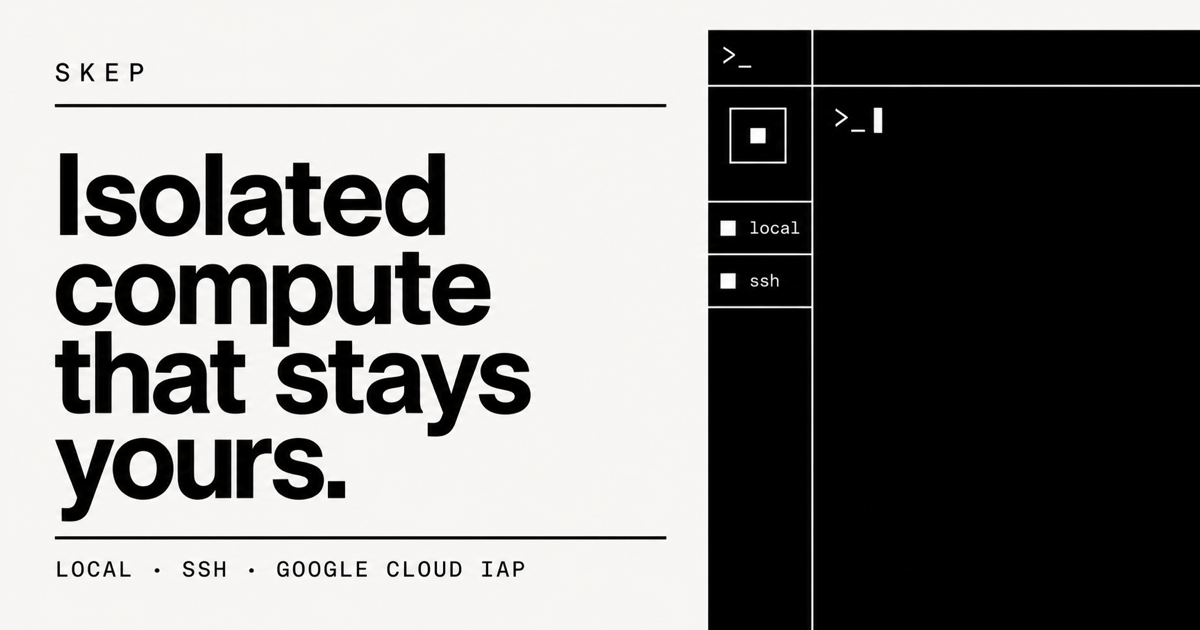
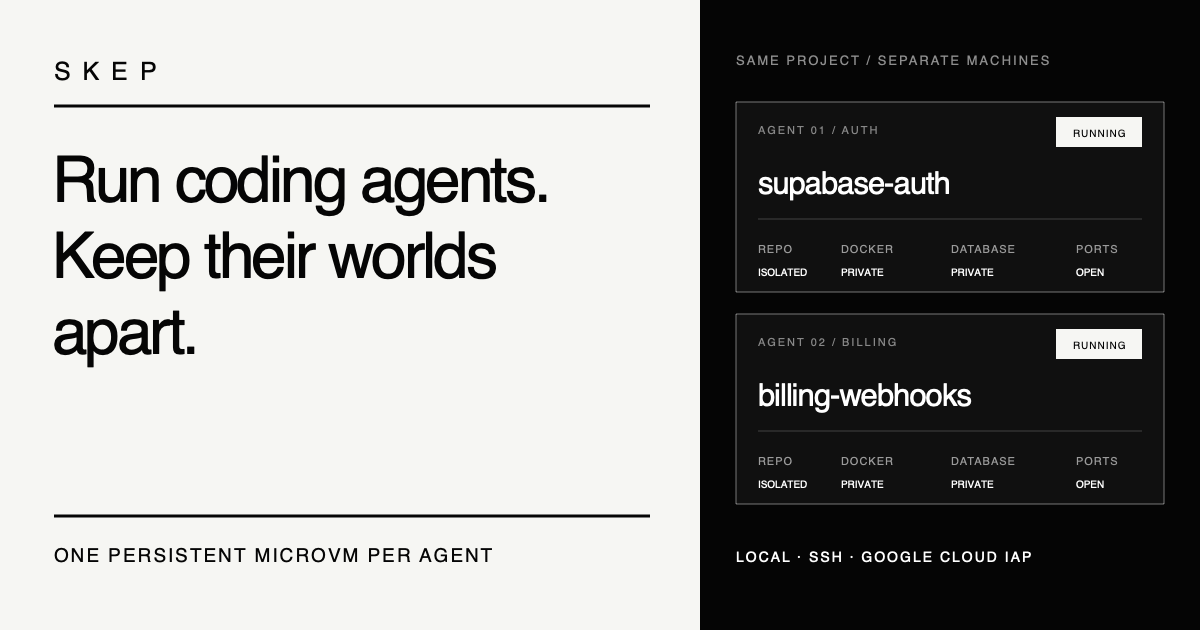
Clarify Skep coding agent use case

diff --git a/website/public/index.html b/website/public/index.html
@@ -3,27 +3,27 @@
   <head>
     <meta charset="utf-8">
     <meta name="viewport" content="width=device-width, initial-scale=1">
-    <title>Skep — Isolated compute that stays yours</title>
-    <meta name="description" content="Build persistent microVM workspaces on your Apple Silicon Mac or a remote Linux host. One native app for local compute, SSH, and Google Cloud IAP.">
+    <title>Skep — Isolated workspaces for coding agents</title>
+    <meta name="description" content="Give every coding agent its own persistent Linux microVM, Docker environment, database, and ports. Run locally on Apple Silicon or on your own Linux host.">
     <meta name="application-name" content="Skep">
     <meta name="apple-mobile-web-app-title" content="Skep">
     <meta name="theme-color" content="#050505">
     <meta property="og:type" content="website">
     <meta property="og:site_name" content="Skep">
     <meta property="og:locale" content="en_US">
-    <meta property="og:title" content="Skep — Isolated compute that stays yours">
-    <meta property="og:description" content="Persistent microVM workspaces, locally on Apple Silicon or remotely over SSH and Google Cloud IAP.">
+    <meta property="og:title" content="Skep — Isolated workspaces for coding agents">
+    <meta property="og:description" content="Run coding agents in parallel without shared Docker, database, port, or filesystem collisions.">
     <meta property="og:url" content="https://skep-compute.vercel.app">
     <meta property="og:image" content="https://skep-compute.vercel.app/og.png">
     <meta property="og:image:type" content="image/png">
     <meta property="og:image:width" content="1200">
     <meta property="og:image:height" content="630">
-    <meta property="og:image:alt" content="Skep — Isolated compute that stays yours. Local, SSH, and Google Cloud IAP.">
+    <meta property="og:image:alt" content="Skep — Run coding agents. Keep their worlds apart. One persistent microVM per agent.">
     <meta name="twitter:card" content="summary_large_image">
-    <meta name="twitter:title" content="Skep — Isolated compute that stays yours">
-    <meta name="twitter:description" content="Persistent microVM workspaces, locally or on your own Linux hosts.">
+    <meta name="twitter:title" content="Skep — Isolated workspaces for coding agents">
+    <meta name="twitter:description" content="One persistent Linux microVM per coding agent, locally or on your own cloud host.">
     <meta name="twitter:image" content="https://skep-compute.vercel.app/og.png">
-    <meta name="twitter:image:alt" content="Skep — Isolated compute that stays yours.">
+    <meta name="twitter:image:alt" content="Skep — Run coding agents. Keep their worlds apart.">
     <link rel="canonical" href="https://skep-compute.vercel.app">
     <link rel="icon" href="/favicon.svg" type="image/svg+xml">
     <link rel="icon" href="/favicon-32x32.png" sizes="32x32" type="image/png">
@@ -38,10 +38,10 @@
         "name": "Skep",
         "applicationCategory": "DeveloperApplication",
         "operatingSystem": "macOS 14 or later",
-        "softwareVersion": "0.1.0",
+        "softwareVersion": "0.1.1",
         "url": "https://skep-compute.vercel.app",
         "downloadUrl": "https://skep-compute.vercel.app/download",
-        "description": "Persistent isolated compute on your Apple Silicon Mac and your own Linux hosts.",
+        "description": "Persistent isolated Linux workspaces for running coding agents in parallel on Apple Silicon and your own Linux hosts.",
         "offers": {
           "@type": "Offer",
           "price": "0",
@@ -59,8 +59,8 @@
         <span>SKEP</span>
       </a>
       <nav aria-label="Primary navigation">
+        <a href="#use-cases">Use cases</a>
         <a href="#workflow">Workflow</a>
-        <a href="#architecture">Architecture</a>
         <a href="#faq">FAQ</a>
       </nav>
       <a class="header-cta" href="/download">Download beta <span aria-hidden="true">↘</span></a>
@@ -69,14 +69,14 @@
     <main id="main">
       <section class="hero">
         <div class="hero-copy">
-          <p class="eyebrow"><span class="status-dot"></span> Private beta · macOS</p>
-          <h1>Isolated compute<br>that stays yours.</h1>
-          <p class="lede">Build a machine once. Publish a template. Open persistent microVM workspaces on your Mac or your own cloud host—without learning another cloud control plane.</p>
+          <p class="eyebrow"><span class="status-dot"></span> Coding agent workspaces · Private beta</p>
+          <h1>Run coding agents.<br>Keep their worlds apart.</h1>
+          <p class="lede">Give every agent its own persistent Linux microVM—with a separate filesystem, Docker environment, database, and ports. Run them on your Mac or your own cloud host and switch between their terminals from one native app.</p>
           <div class="hero-actions">
             <a class="button button-primary" href="/download">Download for Mac</a>
-            <a class="button button-secondary" href="#workflow">See the workflow</a>
+            <a class="button button-secondary" href="#use-cases">See what it solves</a>
           </div>
-          <p class="requirements">Apple Silicon · macOS 14+ · No account required</p>
+          <p class="requirements">Apple Silicon · macOS 14+ · Bring your own agent · No account required</p>
         </div>
         <div class="hero-system" aria-label="Skep application preview">
           <div class="window-bar">
@@ -91,17 +91,33 @@
               <div class="host"><span class="host-icon">◇</span><span>dev-gcp<small>GCP · IAP</small></span></div>
               <div class="workspace-line"></div>
               <p class="ui-label workspace-label">WORKSPACES 2</p>
-              <div class="workspace active"><span></span>agent-main <em>RUNNING</em></div>
-              <div class="workspace"><span></span>review-3085 <em>STOPPED</em></div>
+              <div class="workspace active"><span></span>supabase-auth <em>AGENT RUNNING</em></div>
+              <div class="workspace"><span></span>billing-webhooks <em>AGENT RUNNING</em></div>
             </aside>
             <div class="app-main">
-              <div class="terminal-head"><span>WORKSPACE / agent-main</span><span>● CONNECTED</span></div>
-              <div class="terminal-body">
-                <p><b>$</b> git status --short</p>
-                <p><i>M</i> src/agent/runtime.rs</p>
-                <p><b>$</b> docker compose up -d</p>
-                <p class="muted">[+] Running 4/4</p>
-                <p><b>$</b> <span class="cursor"></span></p>
+              <div class="terminal-grid">
+                <div class="terminal-pane">
+                  <div class="terminal-head"><span>01 / SUPABASE-AUTH</span><span>● CODEX</span></div>
+                  <div class="terminal-body">
+                    <p><b>$</b> codex "add passkey auth"</p>
+                    <p class="muted">Working in auth/callback.ts</p>
+                    <p><b>$</b> docker compose ps</p>
+                    <p><i>api</i> &nbsp; :3000 &nbsp; running</p>
+                    <p><i>db</i> &nbsp;&nbsp; :5432 &nbsp; running</p>
+                    <p><b>$</b> <span class="cursor"></span></p>
+                  </div>
+                </div>
+                <div class="terminal-pane secondary">
+                  <div class="terminal-head"><span>02 / BILLING-WEBHOOKS</span><span>● CLAUDE</span></div>
+                  <div class="terminal-body">
+                    <p><b>$</b> claude "add billing portal"</p>
+                    <p class="muted">Working in billing/webhooks.ts</p>
+                    <p><b>$</b> docker compose ps</p>
+                    <p><i>api</i> &nbsp; :3000 &nbsp; running</p>
+                    <p><i>db</i> &nbsp;&nbsp; :5432 &nbsp; running</p>
+                    <p><b>$</b> <span class="cursor static"></span></p>
+                  </div>
+                </div>
               </div>
             </div>
           </div>
@@ -109,39 +125,86 @@
       </section>
 
       <section class="proof-strip" aria-label="Product capabilities">
-        <span>LOCAL APPLE SILICON</span>
-        <span>REGULAR SSH</span>
-        <span>GOOGLE CLOUD IAP</span>
-        <span>DOCKER INSIDE</span>
-        <span>PERSISTENT DISKS</span>
+        <span>ONE MICROVM PER AGENT</span>
+        <span>OWN DOCKER</span>
+        <span>OWN DATABASE</span>
+        <span>OWN PORTS</span>
+        <span>LOCAL OR YOUR CLOUD</span>
       </section>
 
-      <section class="statement section-rule">
-        <p class="eyebrow">THE PREMISE</p>
-        <h2>Your laptop should feel local.<br>Your compute does not have to be.</h2>
-        <p>Skep treats your Mac and your Linux VMs as one pool of isolated development capacity. The interface stays the same whether a workspace is running three feet away or behind Google Cloud IAP.</p>
+      <section id="use-cases" class="use-cases section-rule">
+        <div class="use-case-intro">
+          <p class="eyebrow">THE JOB</p>
+          <h2>Parallel agents without shared-state chaos.</h2>
+          <p>Another checkout is not another computer. Two agents can still fight over Docker, databases, ports, dependencies, and migrations. Skep gives each task a complete, persistent machine.</p>
+        </div>
+        <div class="agent-boundary" aria-label="Two coding agents running in separate workspaces">
+          <div class="boundary-head">
+            <span>SAME PROJECT</span>
+            <span>SEPARATE MACHINES</span>
+          </div>
+          <div class="agent-columns">
+            <article>
+              <p class="agent-index">AGENT 01 / AUTH</p>
+              <h3>supabase-auth</h3>
+              <ul>
+                <li><span>WORKING TREE</span><strong>isolated</strong></li>
+                <li><span>DOCKER + DB</span><strong>private</strong></li>
+                <li><span>PORT 3000</span><strong>available</strong></li>
+                <li><span>STATE</span><strong>persistent</strong></li>
+              </ul>
+            </article>
+            <article>
+              <p class="agent-index">AGENT 02 / BILLING</p>
+              <h3>billing-webhooks</h3>
+              <ul>
+                <li><span>WORKING TREE</span><strong>isolated</strong></li>
+                <li><span>DOCKER + DB</span><strong>private</strong></li>
+                <li><span>PORT 3000</span><strong>available</strong></li>
+                <li><span>STATE</span><strong>persistent</strong></li>
+              </ul>
+            </article>
+          </div>
+        </div>
+        <div class="use-case-grid">
+          <article>
+            <span>01</span>
+            <h3>Ship features in parallel</h3>
+            <p>Put Codex, Claude Code, or another CLI agent in a workspace per task. Each gets the complete stack without colliding with the others.</p>
+          </article>
+          <article>
+            <span>02</span>
+            <h3>Keep long jobs remote</h3>
+            <p>Run on a Linux VM you control, including hosts behind Google Cloud IAP. Close your laptop and reconnect to the same persistent workspace.</p>
+          </article>
+          <article>
+            <span>03</span>
+            <h3>Review without residue</h3>
+            <p>Launch a clean machine from your template, install project dependencies, run the full stack, then delete the workspace when the review is done.</p>
+          </article>
+        </div>
       </section>
 
       <section id="workflow" class="workflow section-rule">
         <div class="section-heading">
           <p class="eyebrow">ONE REPEATABLE LOOP</p>
-          <h2>From clean image to working machine.</h2>
+          <h2>Prepare once. Launch a machine per task.</h2>
         </div>
         <ol class="steps">
           <li>
             <span class="step-number">01</span>
-            <h3>Build</h3>
-            <p>Start an editable microVM from an OCI image. Install your tools through a full terminal and keep the builder around.</p>
+            <h3>Prepare</h3>
+            <p>Start an editable Linux microVM. Install your coding agents, repository tools, Docker stack, and project dependencies once.</p>
           </li>
           <li>
             <span class="step-number">02</span>
-            <h3>Publish</h3>
-            <p>Capture a verified, immutable template. The source builder remains available when you need to change the baseline.</p>
+            <h3>Template</h3>
+            <p>Capture a verified baseline. The source builder stays available whenever your toolchain or project setup changes.</p>
           </li>
           <li>
             <span class="step-number">03</span>
-            <h3>Launch</h3>
-            <p>Create isolated, persistent workspaces with dedicated filesystems and Docker data disks. Stop them without losing state.</p>
+            <h3>Assign</h3>
+            <p>Launch one persistent workspace per agent or task. Stop it without losing state, or delete the whole environment when the work is done.</p>
           </li>
         </ol>
       </section>
@@ -149,13 +212,13 @@
       <section id="architecture" class="architecture section-rule">
         <div class="section-heading">
           <p class="eyebrow">ONE APP, TWO EXECUTION MODES</p>
-          <h2>Local when you want it.<br>Remote when you need it.</h2>
+          <h2>Your agents can work here.<br>Or on your own cloud VM.</h2>
         </div>
         <div class="mode-grid">
           <article class="mode mode-dark">
             <p class="mode-index">A / LOCAL</p>
             <h3>This Mac</h3>
-            <p>Run Linux microVMs through the native Apple Silicon Microsandbox runtime. No SSH, cloud account, or administrator install.</p>
+            <p>Run agent workspaces locally through the native Apple Silicon Microsandbox runtime. No SSH, cloud account, or administrator install.</p>
             <ul>
               <li>Private Unix control socket</li>
               <li>User-owned local service</li>
@@ -165,7 +228,7 @@
           <article class="mode">
             <p class="mode-index">B / REMOTE</p>
             <h3>Your Linux host</h3>
-            <p>Connect using credentials already configured on your Mac. Skep supports regular SSH and Google Cloud IAP tunnels.</p>
+            <p>Move heavier or longer-running agent work to a Linux VM you control. Connect with your existing SSH credentials or Google Cloud IAP.</p>
             <ul>
               <li>No daemon port exposed</li>
               <li>Checksummed host payload</li>
@@ -181,7 +244,7 @@
           <h2>Switch machines like tabs.</h2>
         </div>
         <div class="sessions-copy">
-          <p>Each host expands into its workspaces in the sidebar. Open one and its terminal stays attached while you move through the rest of the app.</p>
+          <p>Each host expands into its agent workspaces in the sidebar. Open one and its terminal stays attached while you move through the rest of the app.</p>
           <dl>
             <div><dt>Sleep</dt><dd>Reconnect after your Mac wakes.</dd></div>
             <div><dt>Network drop</dt><dd>Retry automatically, then offer a manual reconnect.</dd></div>
@@ -200,7 +263,7 @@
           <div><span>01</span><p>Your private SSH keys and Google Cloud credentials stay on your Mac.</p></div>
           <div><span>02</span><p>The remote service is reached through SSH and a host-local Unix socket—not a public API port.</p></div>
           <div><span>03</span><p>Host binaries ship with the app, are checksum-verified, and update without deleting workspace state.</p></div>
-          <div><span>04</span><p>Docker runs inside each Linux workspace instead of sharing your Mac’s Docker daemon.</p></div>
+          <div><span>04</span><p>Every agent gets its own Linux filesystem and Docker daemon instead of sharing development state on your Mac.</p></div>
         </div>
       </section>
 
@@ -224,6 +287,7 @@
           <h2>The short answers.</h2>
         </div>
         <div class="faq-list">
+          <details><summary>Does Skep run the coding agent for me?</summary><p>No. Skep creates and connects you to the isolated Linux machine where your preferred CLI agent runs. Install Codex, Claude Code, OpenCode, or any other terminal-based development tool in your builder, then include it in your reusable template.</p></details>
           <details><summary>Is Skep open source?</summary><p>Not yet. The current beta is distributed as a binary while the product and release model settle. The underlying Microsandbox runtime is Apache-2.0 software.</p></details>
           <details><summary>Does it replace Docker?</summary><p>No. Skep creates the isolated Linux machines. Docker runs normally inside each builder and workspace.</p></details>
           <details><summary>Does Skep create cloud VMs?</summary><p>Not in this preview. Point it at a compatible Linux VM you already control. It can parse a complete <code>gcloud compute ssh … --tunnel-through-iap</code> command for you.</p></details>
@@ -233,19 +297,19 @@
       </section>
 
       <section class="final-cta section-rule">
-        <p class="eyebrow">START WITH ONE MACHINE</p>
-        <h2>Make isolated workspaces feel ordinary.</h2>
+        <p class="eyebrow">START WITH TWO TASKS</p>
+        <h2>Let the agents work in parallel—not on top of each other.</h2>
         <div class="hero-actions">
           <a class="button button-primary inverse" href="/download">Download the private beta</a>
           <a class="button button-secondary inverse" href="mailto:storozhenkomykyta@gmail.com?subject=Skep%20private%20beta">Send feedback</a>
         </div>
-        <p>Version 0.1.0 · Apple Silicon · macOS 14+</p>
+        <p>Version 0.1.1 · Apple Silicon · macOS 14+</p>
       </section>
     </main>
 
     <footer>
       <div class="brand"><img class="brand-icon" src="/favicon.svg" alt="" width="30" height="30"><span>SKEP</span></div>
-      <p>Isolated compute that stays yours.</p>
+      <p>Isolated workspaces for coding agents.</p>
       <div><a href="/privacy/">Privacy</a><a href="mailto:storozhenkomykyta@gmail.com">Contact</a></div>
     </footer>
   </body>

diff --git a/website/public/styles.css b/website/public/styles.css
@@ -58,8 +58,11 @@ h1 { max-width: 690px; margin-bottom: 28px; font-size: clamp(56px, 6.2vw, 98px);
 .workspace.active span { background: var(--white); }
 .workspace em { display: block; margin-top: 4px; color: #707070; font: 600 8px/1 ui-monospace, SFMono-Regular, Menlo, monospace; font-style: normal; }
 .app-main { display: flex; flex-direction: column; min-width: 0; }
+.terminal-grid { min-height: 0; flex: 1; display: grid; grid-template-columns: repeat(2, minmax(0, 1fr)); }
+.terminal-pane { min-width: 0; display: flex; flex-direction: column; }
+.terminal-pane + .terminal-pane { border-left: 1px solid #333; }
 .terminal-head { height: 47px; padding: 0 18px; display: flex; align-items: center; justify-content: space-between; color: #a8a8a8; border-bottom: 1px solid #333; font: 600 9px/1 ui-monospace, SFMono-Regular, Menlo, monospace; letter-spacing: .08em; }
-.terminal-body { flex: 1; padding: 30px; color: #ececec; background: #17191d; font: 500 14px/1.72 ui-monospace, SFMono-Regular, Menlo, monospace; overflow: hidden; }
+.terminal-body { flex: 1; padding: 30px 20px; color: #ececec; background: #17191d; font: 500 12px/1.72 ui-monospace, SFMono-Regular, Menlo, monospace; overflow: hidden; }
 .terminal-body p { margin-bottom: 4px; white-space: nowrap; }
 .terminal-body b { color: #777; }
 .terminal-body i { color: var(--white); font-style: normal; }
@@ -71,9 +74,28 @@ h1 { max-width: 690px; margin-bottom: 28px; font-size: clamp(56px, 6.2vw, 98px);
 .proof-strip span { white-space: nowrap; }
 .proof-strip span::before { content: "■"; margin-right: 9px; }
 .section-rule { border-bottom: 1px solid var(--black); }
-.statement { padding: clamp(90px, 12vw, 180px) 7vw; }
-.statement h2, .section-heading h2, .sessions h2, .security h2, .beta h2, .final-cta h2 { margin-bottom: 24px; font-size: clamp(42px, 5.6vw, 84px); line-height: .98; letter-spacing: -.055em; font-weight: 650; }
-.statement > p:last-child { max-width: 740px; margin: 46px 0 0 auto; font-size: clamp(18px, 1.7vw, 24px); line-height: 1.45; }
+.use-cases { padding: 110px 6vw; }
+.use-case-intro { display: grid; grid-template-columns: .6fr 1.4fr; align-items: start; gap: 18px 40px; }
+.use-case-intro .eyebrow { grid-row: 1 / span 2; padding-top: 9px; }
+.use-case-intro h2, .section-heading h2, .sessions h2, .security h2, .beta h2, .final-cta h2 { margin-bottom: 24px; font-size: clamp(42px, 5.6vw, 84px); line-height: .98; letter-spacing: -.055em; font-weight: 650; }
+.use-case-intro h2 { margin-bottom: 10px; }
+.use-case-intro > p:last-child { grid-column: 2; max-width: 760px; margin: 0; color: var(--gray); font-size: clamp(17px, 1.6vw, 22px); line-height: 1.48; }
+.agent-boundary { margin-top: 76px; color: var(--white); background: var(--black); border: 1px solid var(--black); }
+.boundary-head { min-height: 52px; padding: 0 20px; display: flex; align-items: center; justify-content: space-between; color: #9a9a9a; border-bottom: 1px solid #444; font: 650 9px/1 ui-monospace, SFMono-Regular, Menlo, monospace; letter-spacing: .14em; }
+.agent-columns { display: grid; grid-template-columns: repeat(2, 1fr); }
+.agent-columns article { min-width: 0; padding: 30px; }
+.agent-columns article + article { border-left: 1px solid #444; }
+.agent-index { color: #8b8b8b; font: 650 9px/1 ui-monospace, SFMono-Regular, Menlo, monospace; letter-spacing: .12em; }
+.agent-columns h3 { margin: 62px 0 32px; font-size: clamp(31px, 3.5vw, 54px); line-height: 1; letter-spacing: -.05em; }
+.agent-columns ul { list-style: none; margin: 0; padding: 0; border-top: 1px solid #444; }
+.agent-columns li { min-height: 48px; display: flex; align-items: center; justify-content: space-between; gap: 18px; border-bottom: 1px solid #333; font: 600 9px/1.2 ui-monospace, SFMono-Regular, Menlo, monospace; letter-spacing: .08em; }
+.agent-columns li strong { color: var(--white); font-weight: 650; }
+.agent-columns li span { color: #858585; }
+.use-case-grid { display: grid; grid-template-columns: repeat(3, 1fr); border-left: 1px solid var(--black); }
+.use-case-grid article { min-height: 290px; padding: 24px; border-right: 1px solid var(--black); border-bottom: 1px solid var(--black); display: flex; flex-direction: column; }
+.use-case-grid article > span { font: 650 10px/1 ui-monospace, SFMono-Regular, Menlo, monospace; }
+.use-case-grid h3 { margin: auto 0 14px; font-size: 27px; line-height: 1.04; letter-spacing: -.04em; }
+.use-case-grid p { margin: 0; color: var(--gray); font-size: 14px; line-height: 1.52; }
 .workflow, .architecture, .faq { padding: 110px 6vw; }
 .section-heading { display: grid; grid-template-columns: .6fr 1.4fr; align-items: start; gap: 40px; margin-bottom: 70px; }
 .section-heading .eyebrow { padding-top: 9px; }
@@ -146,7 +168,9 @@ footer > div:last-child { justify-self: end; display: flex; gap: 22px; font-size
   .hero { grid-template-columns: 1fr; }
   .hero-copy { padding: 90px 7vw 60px; }
   .hero-system { margin: 0 6vw 70px; min-height: 610px; }
-  .section-heading, .beta > div:first-child { grid-template-columns: 1fr; gap: 8px; }
+  .section-heading, .beta > div:first-child, .use-case-intro { grid-template-columns: 1fr; gap: 8px; }
+  .use-case-intro .eyebrow, .use-case-intro > p:last-child { grid-column: 1; grid-row: auto; }
+  .use-case-intro > p:last-child { margin-top: 12px; }
   .security { grid-template-columns: 1fr; }
   .beta-grid { grid-template-columns: repeat(2, 1fr); }
 }
@@ -168,14 +192,20 @@ footer > div:last-child { justify-self: end; display: flex; gap: 22px; font-size
   .host-icon { display: none; }
   .workspace { margin-left: 2px; padding-left: 18px; font-size: 8px; }
   .workspace-line, .workspace-label { margin-left: 8px; }
+  .terminal-grid { grid-template-columns: 1fr; }
+  .terminal-pane.secondary { display: none; }
   .terminal-head { font-size: 7px; }
   .terminal-head span:first-child { max-width: 110px; overflow: hidden; white-space: nowrap; }
   .terminal-body { padding: 20px 13px; font-size: 9px; }
   .proof-strip { min-height: 66px; padding: 0 20px; }
-  .statement, .workflow, .architecture, .sessions, .security, .beta, .faq, .final-cta { padding: 76px 20px; }
-  .statement h2, .section-heading h2, .sessions h2, .security h2, .beta h2, .final-cta h2 { font-size: 45px; }
-  .statement > p:last-child { margin-top: 40px; }
-  .steps, .mode-grid { grid-template-columns: 1fr; }
+  .use-cases, .workflow, .architecture, .sessions, .security, .beta, .faq, .final-cta { padding: 76px 20px; }
+  .use-case-intro h2, .section-heading h2, .sessions h2, .security h2, .beta h2, .final-cta h2 { font-size: 45px; }
+  .agent-boundary { margin-top: 50px; }
+  .agent-columns, .use-case-grid, .steps, .mode-grid { grid-template-columns: 1fr; }
+  .agent-columns article { padding: 24px; }
+  .agent-columns article + article { border-left: 0; border-top: 1px solid #444; }
+  .agent-columns h3 { margin-top: 48px; }
+  .use-case-grid article { min-height: 240px; }
   .steps li { min-height: 250px; }
   .mode + .mode { border-left: 0; border-top: 1px solid var(--black); }
   .mode { min-height: 410px; padding: 24px; }
